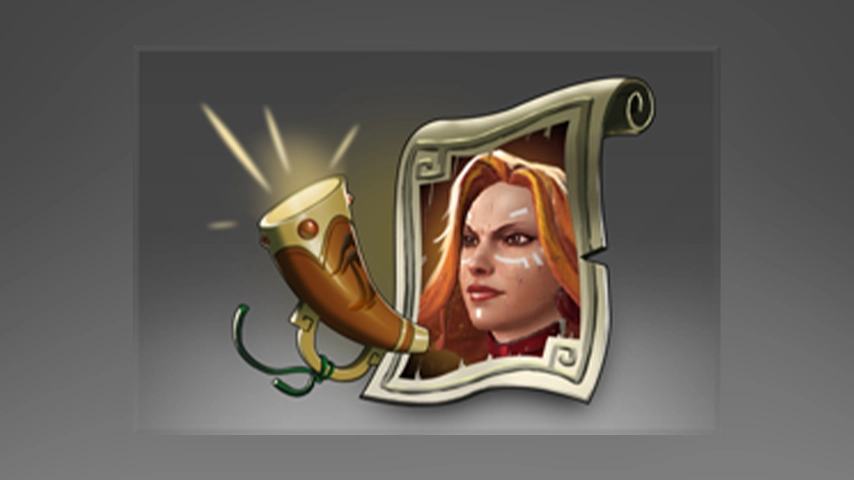
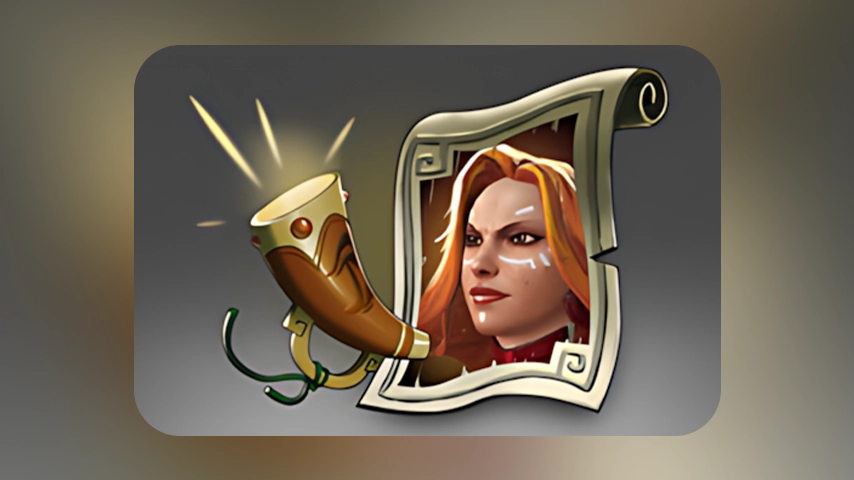
Tusk Announcer + Update images for announcers

diff --git a/assets/mods.js b/assets/mods.js
@@ -1,4 +1,5 @@
 const recentlyAddedMods = [
+    { name: 'Tusk', category: 'announcers' },
     { name: 'DarkPoly Terrain', category: 'terrains' },
     { name: 'Bear Medals', category: 'ranks' },
     { name: 'Void Medals', category: 'ranks' },
@@ -19,52 +20,6 @@ const recentlyAddedMods = [
     { name: 'ItemsFix - Fix items_game structure', category: 'tools' },
     { name: 'Invoker Bloody Wizard', category: 'heroes' },
     { name: 'Spectre Phantom Advent', category: 'heroes' },
-    { name: 'Phantom Assassin Skull Arcana', category: 'heroes' },
-    { name: 'Background Changer', category: 'tools' },
-    { name: 'TI9 Ranged Attack', category: 'ranged-attack' },
-    { name: 'TI10 Ranged Attack', category: 'ranged-attack' },
-    { name: 'Blue Diretide Ranged Attack', category: 'ranged-attack' },
-    { name: 'Ulquiorra', category: 'backgrounds' },
-    { name: 'Rei Ayanami', category: 'backgrounds' },
-    { name: 'Liberalio Nikke', category: 'backgrounds' },
-    { name: 'Night Stalker Feasts of Forever', category: 'heroes' },
-    { name: 'Tinker Deathsman', category: 'heroes' },
-    { name: 'Snapfire Whippersnapper', category: 'heroes' },
-    { name: 'Bedrock', category: 'terrains' },
-    { name: 'Kunkka & Tidehunter', category: 'announcers' },
-    { name: 'Emerald Shadow Fiend', category: 'heroes' },
-    { name: 'Diretide Dire Creeps', category: 'creeps' },
-    { name: 'Diretide Radiant Creeps', category: 'creeps' },
-    { name: 'Crownfall Dire Creeps', category: 'creeps' },
-    { name: 'Crownfall Radiant Creeps', category: 'creeps' },
-    { name: 'Crownfall Dire Siege', category: 'creeps' },
-    { name: 'Crownfall Radiant Siege', category: 'creeps' },
-    { name: 'Palico Odogaron', category: 'couriers' },
-    { name: 'Portal', category: 'wards' },
-    { name: 'Monty', category: 'wards' },
-    { name: 'Trailgazer', category: 'wards' },
-    { name: 'Chen Infernal Psychic', category: 'heroes' },
-    { name: 'Lycan Red Wolf Clan', category: 'heroes' },
-    { name: 'Billy Bounceback', category: 'couriers' },
-    { name: 'Baby Roshan Crownfall', category: 'couriers' },
-    { name: 'Waldi the Faithful', category: 'couriers' },
-    { name: 'Floes Tower', category: 'wards' },
-    { name: 'Curious Snaptrap', category: 'wards' },
-    { name: 'Tinker Submerged Hazard', category: 'heroes' },
-    { name: 'Sniper Odogaron Armor', category: 'heroes' },
-    { name: 'Broodmother Undermount Gloom', category: 'heroes' },
-    { name: 'Juggernaut Samurai of Wind', category: 'heroes' },
-    { name: 'Cosmic Tinker', category: 'heroes' },
-    { name: 'Dawnbreaker Moonbreaker', category: 'heroes' },
-    { name: 'Viper Butch Dog', category: 'heroes' },
-    { name: 'Windranger Autumn Arcana', category: 'heroes' },
-    { name: 'Primal Beast Snowbeast', category: 'heroes' },
-    { name: 'Morphling Megalodon', category: 'heroes' },
-    { name: 'Kakehashi Subaru', category: 'backgrounds' },
-    { name: 'Blossom Rem', category: 'backgrounds' },
-    { name: 'Cyrene Song', category: 'backgrounds' },
-    { name: 'Batrider Night Snotty', category: 'heroes' },
-    { name: 'Snowfall In Forest', category: 'backgrounds' },
 ];
 
 const modsData = {
@@ -473,6 +428,7 @@ const modsData = {
         { name: 'Darkest Dungeon', preview: 'Darkest Dungeon.webp', file: 'pak15_dir.vpk' },
         { name: 'Voice of The International', preview: 'Voice of The International.webp', file: 'pak16_dir.vpk' },
         { name: 'Pyrion Flax', preview: 'Pyrion Flax.webp', file: 'pak17_dir.vpk' },
+        { name: 'Tusk', preview: 'Tusk.webp', file: 'pak18_dir.vpk' },
     ],
     'pedestal': [
         { name: 'Drow Ranger Pedestal', preview: 'Drow Ranger Pedestal.webp', file: 'pak78_dir.vpk' },
